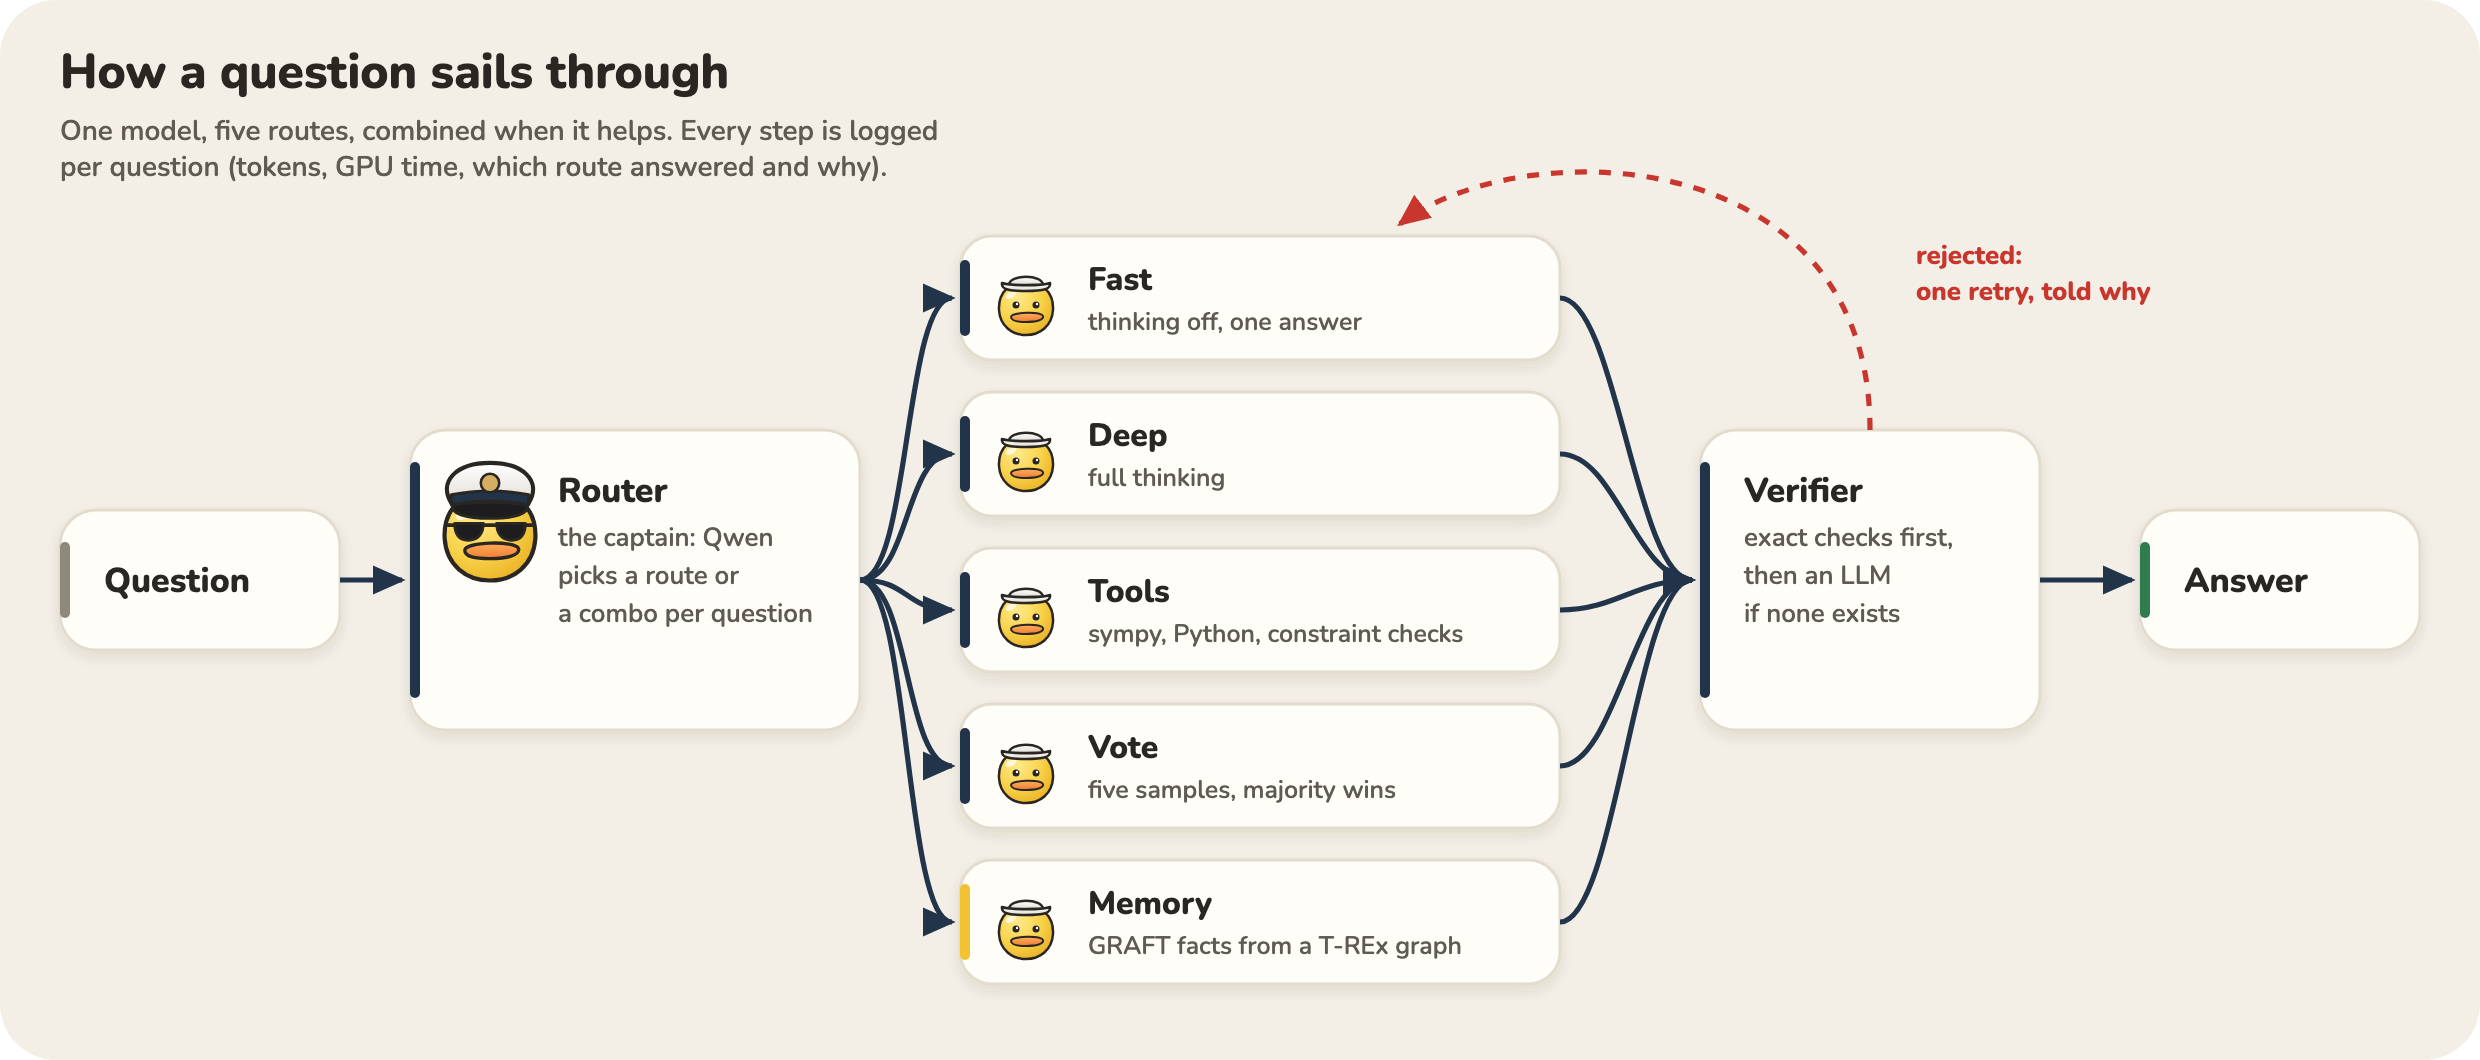
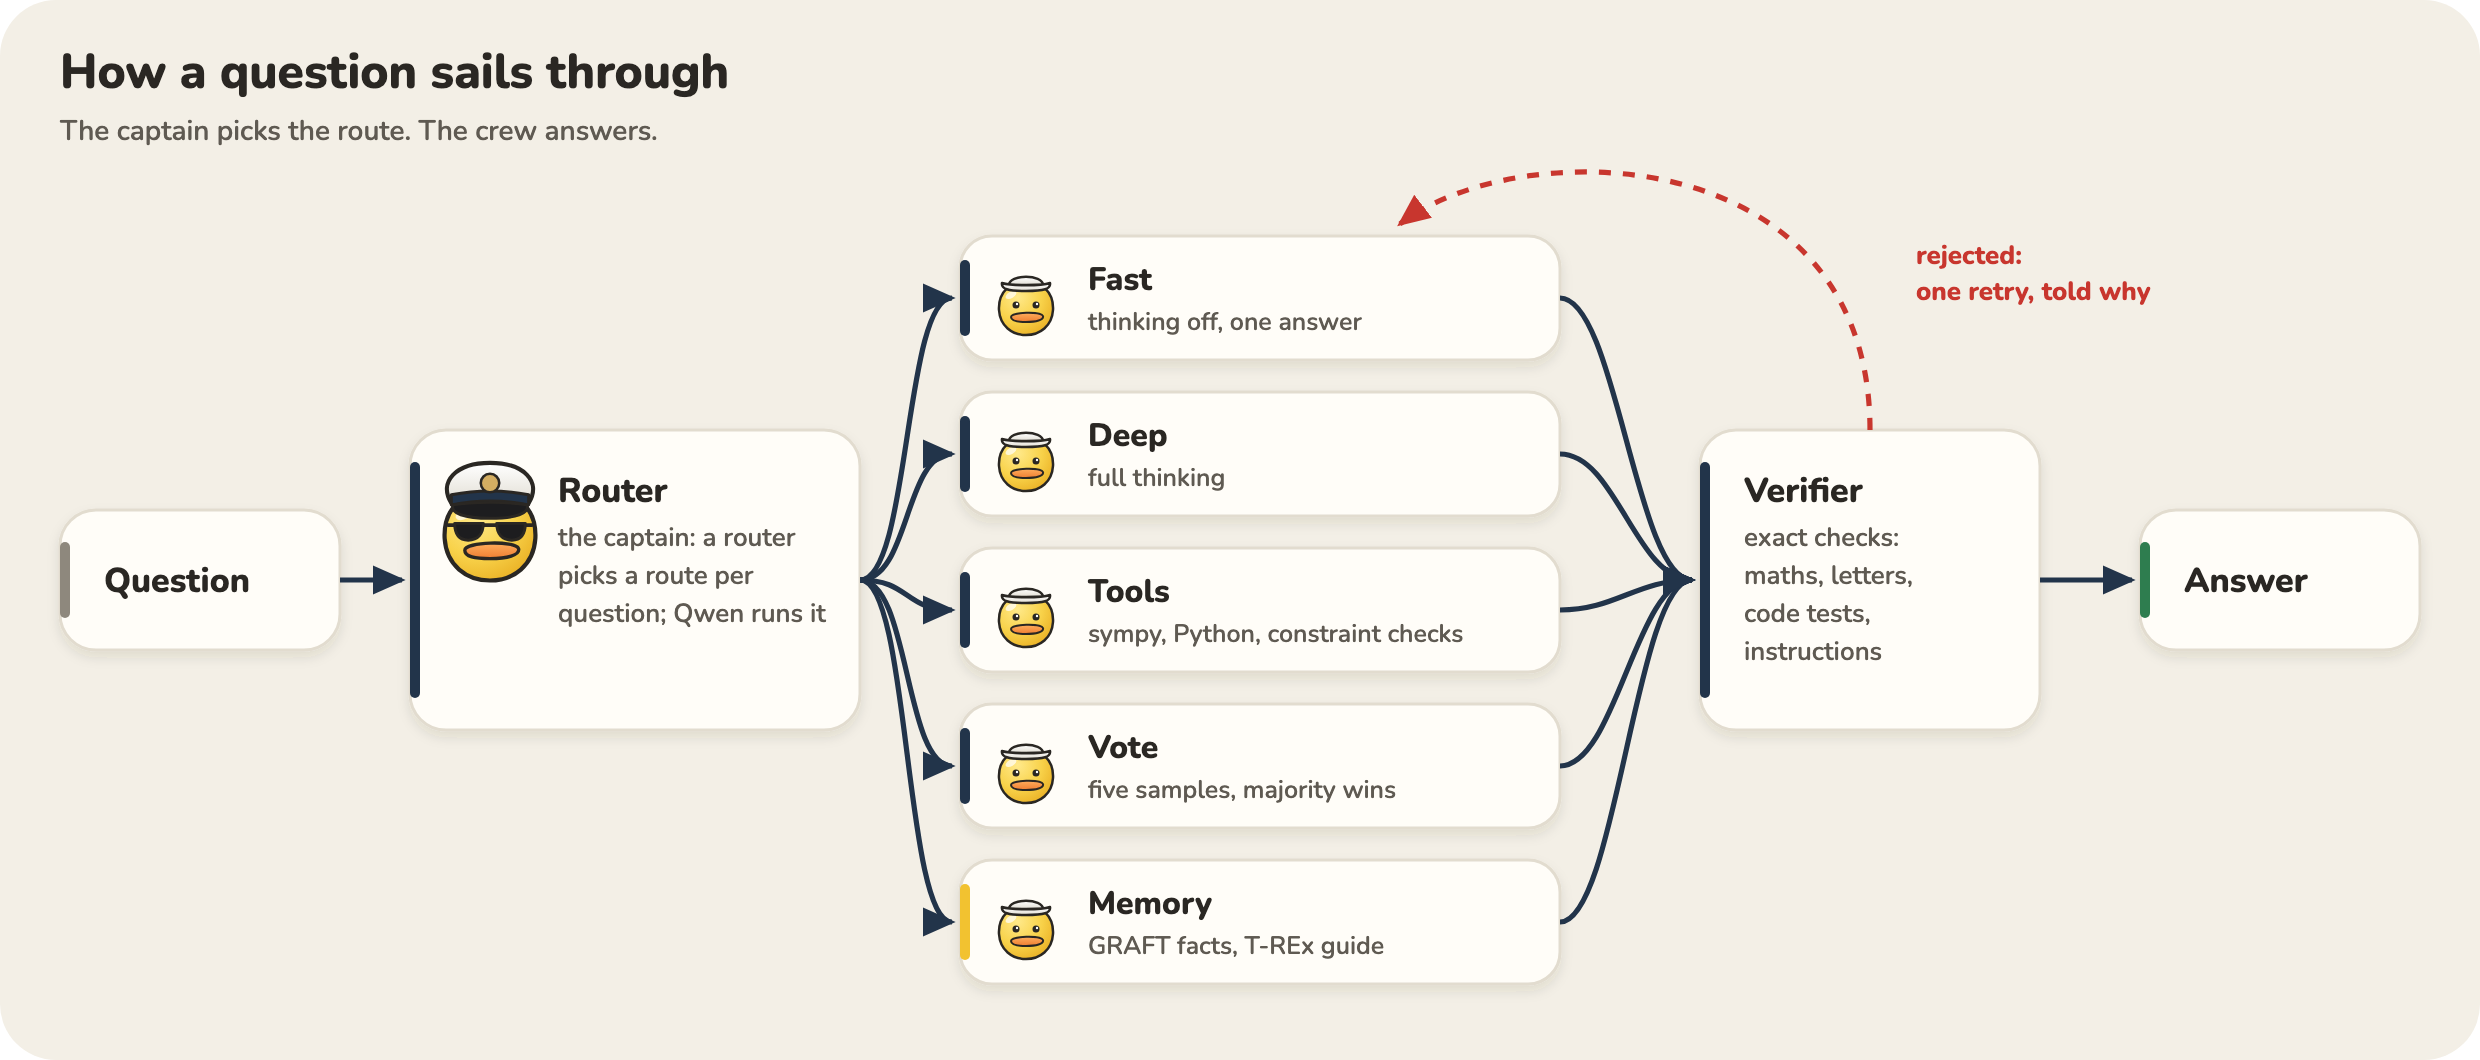
Pipeline diagram: Verifier card shows what is built (exact checks: maths, letters, code tests, instructions); source from the user's latest copy; re-rendered (headless Chrome, 2x)

diff --git a/docs/diagrams/pipeline.html b/docs/diagrams/pipeline.html
@@ -63,13 +63,13 @@ function scard(x,y,w,ht,title,line,{accent=NAVY,icon=null}={}){
 }
 // cards
 h+=card(30,255,140,70,'Question',null,{accent:'#8E887D'});
-h+=card(205,215,225,150,'Router',['the captain: Qwen','picks a route or','a combo per question'],{icon:head(245,281,.42,'captain')});
+h+=card(205,215,225,150,'Router',['the captain: a router','picks a route per','question; Qwen runs it'],{icon:head(245,281,.42,'captain')});
 const S=[['Fast','thinking off, one answer',NAVY],['Deep','full thinking',NAVY],
          ['Tools','sympy, Python, constraint checks',NAVY],['Vote','five samples, majority wins',NAVY],
-         ['Memory','GRAFT facts from a T-REx graph',YEL]];
+         ['Memory','GRAFT facts, T-REx guide',YEL]];
 const SX=480, SW=300, SH=62, SY0=118, SG=78;
 S.forEach(([t,l,c],i)=>{ const y=SY0+i*SG; h+=scard(SX,y,SW,SH,t,l,{accent:c,icon:head(SX+33,y+44,.25,'crew')}); });
-h+=card(850,215,170,150,'Verifier',['exact checks first,','then an LLM','if none exists']);
+h+=card(850,215,170,150,'Verifier',['exact checks:','maths, letters,','code tests,','instructions']);
 h+=card(1070,255,140,70,'Answer',null,{accent:'#2E7D4F'});
 // arrows
 h+=arrow('M170 290 L201 290');
@@ -80,8 +80,7 @@ h+=arrow('M935 215 C935 70 760 66 700 112', RED, true);
 h+=`<text x="958" y="132" font-size="13" font-weight="800" fill="${RED}">rejected:</text><text x="958" y="150" font-size="13" font-weight="800" fill="${RED}">one retry, told why</text>`;
 // title
 h+=`<text x="30" y="44" font-size="24" font-weight="800" fill="${INK}">How a question sails through</text>`;
-h+=`<text x="30" y="70" font-size="14" font-weight="600" fill="${INK2}">One model, five routes, combined when it helps. Every step is logged</text>`;
-h+=`<text x="30" y="88" font-size="14" font-weight="600" fill="${INK2}">per question (tokens, GPU time, which route answered and why).</text>`;
+h+=`<text x="30" y="70" font-size="14" font-weight="600" fill="${INK2}">The captain picks the route. The crew answers.</text>`;
 document.getElementById('art').innerHTML=h;
 </script>
 </body></html>
